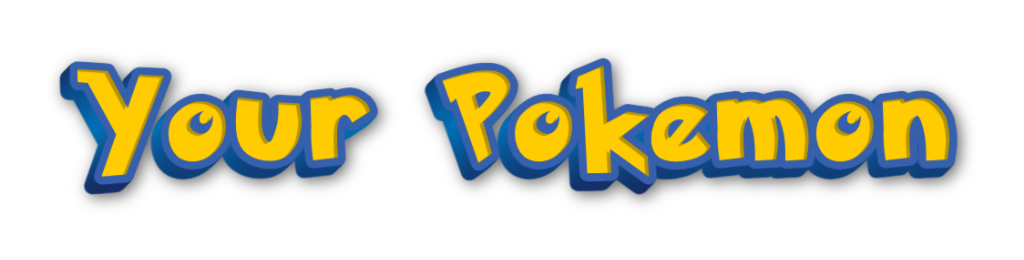
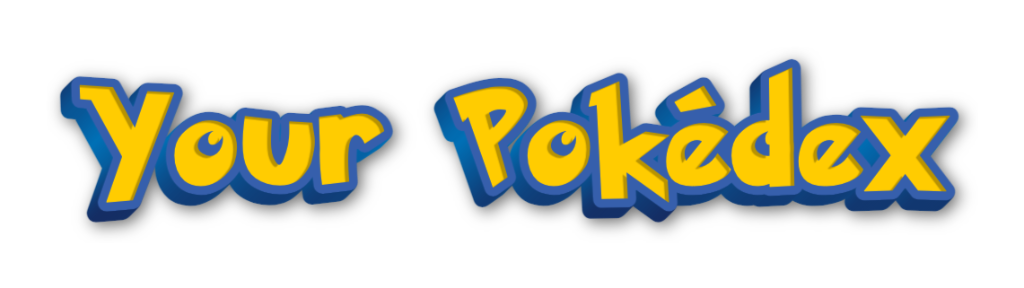
Conditional rendering for your pokemon text

Changed region(s): [[0.0312, 0.1846, 0.9688, 0.8]]

diff --git a/src/components/PokemonList/PokemonList.jsx b/src/components/PokemonList/PokemonList.jsx
@@ -13,16 +13,19 @@ const PokemonList = ({
   const favoritePokemonData = pokemons.find(
     (poke) => poke.id === favoritePokemon
   );
+  const hasPokemons = pokemons.length > 0;
 
   return (
     <div className="pokemon-list">
-      <div className="headerClass">
-        <img
-          src={YourPokemon}
-          alt="heading pokemon"
-          style={{ width: "400px", height: "auto" }}
-        />
-      </div>
+      {hasPokemons && (
+        <div className="headerClass">
+          <img
+            src={YourPokemon}
+            alt="heading Pokédex"
+            style={{ width: "400px", height: "auto" }}
+          />
+        </div>
+      )}
       <div className="allPokemonContainer">
         {/* Favorite Pokémon */}
         {favoritePokemonData && (
